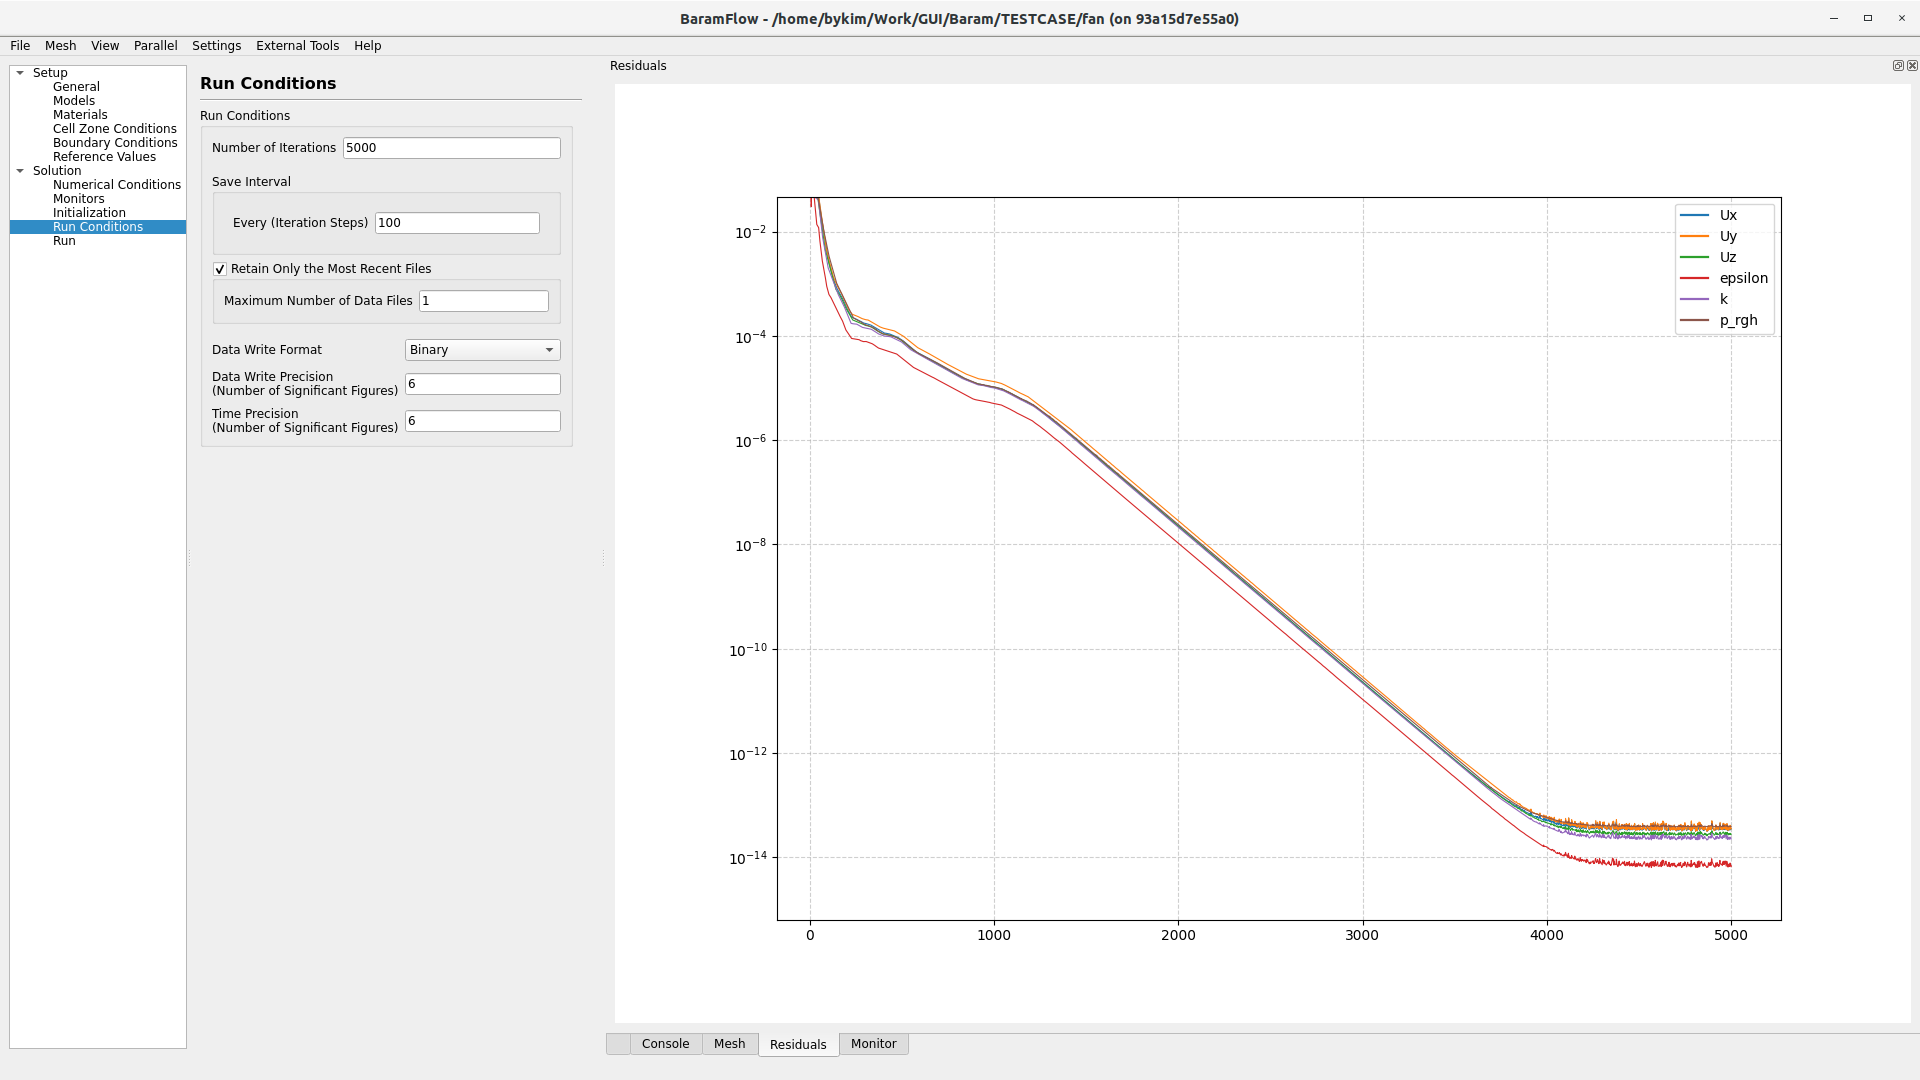
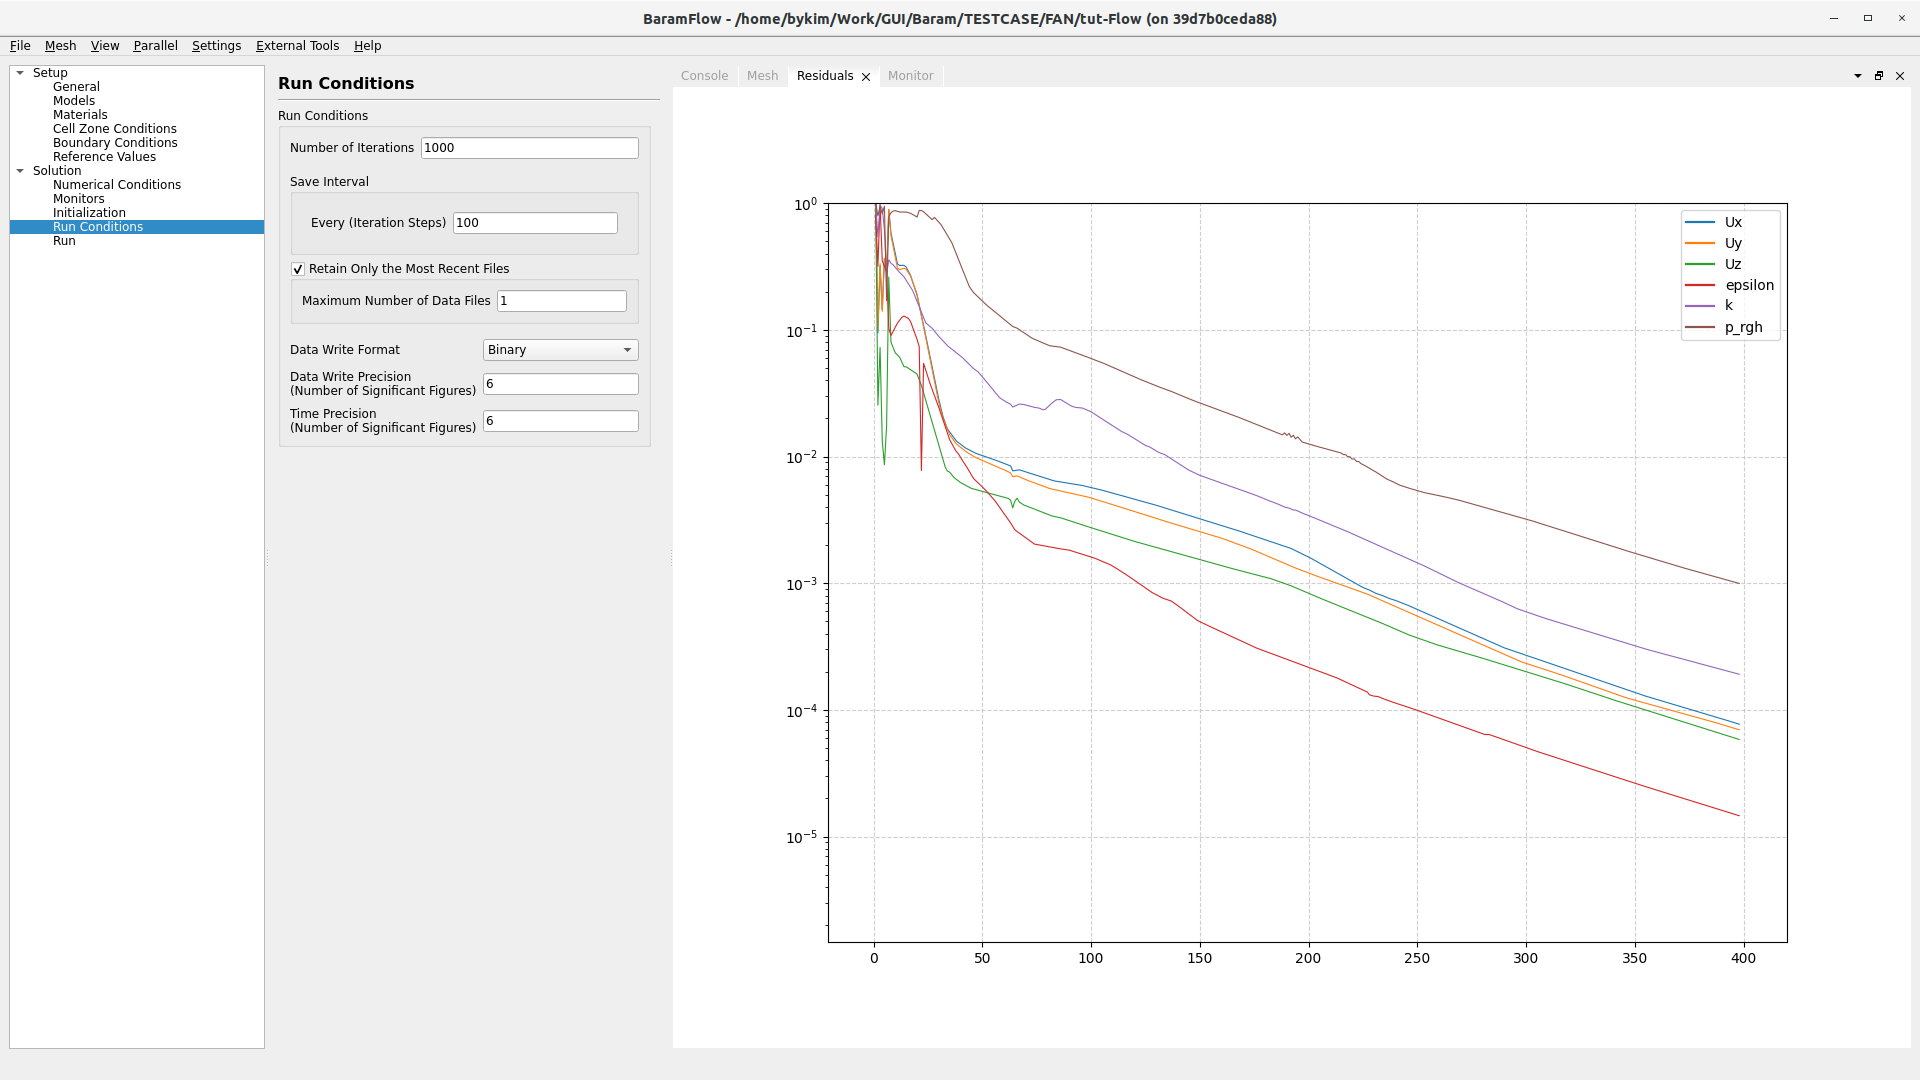
fan mesh tutorial

diff --git a/_posts/meshtutorialguide/2024-07-05-fan-post.md b/_posts/meshtutorialguide/2024-07-05-fan-post.md
@@ -1,0 +1,151 @@
+---
+layout: post
+title: 14. Fan
+category: mesh
+---
+
+
+# Fan
+
+## * [형상 파일](https://drive.google.com/file/d/1Z_PLXsIe-niyzrYEHUTkhZkboLs5eeSP/view?usp=sharing) 
+
+## 개요 
+
+|[![intro](https://github.com/nextfoam/baram-pages/raw/main/screenshots/fan/intro.png)](https://github.com/nextfoam/baram-pages/raw/main/screenshots/fan/intro.png){:target="_blank"}|
+
+* 본 예제는 간단한 형상의 원심팬의 격자를 BaramMesh로 생성하는 예제이다. 블레이드 두께가 매우 앏고 케이스와 블레이드의 간격이 매우 작기 때문에 형상을 잘 구현하기 위해 세심한 주의가 필요하다.
+
+* MRF로 계산하기 위해 프로펠러를 둘러싼 실린더가 있고 그 내부를 cell zone으로 설정한다. 
+
+* baramMesh를 실행하고 fan이라는 이름으로 project를 생성한다.
+
+## 1. 형상정의 (Geometry)
+
+형상은 주어진 casing.stl, blade.stl, inlet.stl, outlet.stl 4개의 파일을 사용한다.  
+
+하단 탭에서 Import - Select를 선택하고 blade.stl, casing.stl, inlet.stl, outlet.stl 파일을 선택한다. 
+
+
+<p align='center'>
+    <img src="https://github.com/nextfoam/baram-pages/raw/main/screenshots/mesh/fan/importSTL.png"  >
+    <br> import stl files
+</p>
+
+
+Cell zone을 만들기 위해 Add 버튼을 눌러 Cylinder를 선택한다. Type은 CellZone으로 선택하고 형상은 다음과 같이 설정한다.
+
++ Axis Point 1 : (0 0 -0.001)
++ Axis Point 2 : (0 0 0.021)
++ Radius : 0.07
+
+<p align='center'>
+    <img src="https://github.com/nextfoam/baram-pages/raw/main/screenshots/mesh/fan/createCylinder.png"  >
+    <br> Add cell zone geometry
+</p>
+
+
+Geometry에서 Cylinder_1_surface1 면을 마우스 오른쪽 버튼으로 선택하고 Edit/View를 눌러 Type을 None으로 바꾸어 준다.
+
+
+<p align='center'>
+    <img src="https://github.com/nextfoam/baram-pages/raw/main/screenshots/mesh/propeller/cellZone.png"  >
+    <br> Add cell zone geometry
+</p>
+
+Geometry의 최종 결과는 다음 그밀과 같다.
+
+<p align='center'>
+    <img src="https://github.com/nextfoam/baram-pages/raw/main/screenshots/mesh/fan/geom1.png"  >
+    <br> 최종 형상
+</p>
+
+Next 버튼을 눌러 다음 단계로 넘어간다.
+
+
+## 2. 영역정의(Region)
+
+Region에서는 Fluid의 영역을 지정한다.
+
+상단 (+)버튼을 클릭하면 아래 그림과 같이 변경된다. 디스플레이 창에서 마우스를 움직여 중앙점을 계산영역 내부에 위치시킨다. Add Region에서 Type을 Fluid로 그대로 두고 Add 버튼을 누르면 설정이 완료된다.
+
+<p align='center'>
+    <img src="https://github.com/nextfoam/baram-pages/raw/main/screenshots/mesh/fan/region.png"  >
+    <br> Region 설정
+</p>
+
+Next 버튼을 눌러 다음 단계로 넘어간다.
+
+
+## 3. 배경격자(Base Grid)
+
+Number of Cells per Direction에 50, 50, 20를 입력하고 Generate 버튼을 누른다. Display Control에 boundary들이 생성되고 격자 모양을 확인할 수 있다.
+
+<p align='center'>
+    <img src="https://github.com/nextfoam/baram-pages/raw/main/screenshots/mesh/fan/baseGrid.png"  >
+    <br> base grid 설정
+</p>
+
+Next 버튼을 눌러 다음 단계로 넘어간다.
+
+
+
+## 4. 격자세분화(Castellation)
+
+### surface/Feature Refinement
+
+(+)를 눌러 항목을 추가한다. blade_surface와 casing/Cylinder_1_surface에 대해 다음과 같이 설정한다.
+
+|[![intro](https://github.com/nextfoam/baram-pages/raw/main/screenshots/mesh/fan/surfaceRefine.png "Surface/Feature Refinement 설정")](https://github.com/nextfoam/baram-pages/raw/main/screenshots/mesh/fan/surfaceRefine.png){:target="_blank"}|
+
+
+### Volume Refinement
+
+Configuration에서 Number of Cells between Levels를 1로 설정한다. 격자수를 줄이기 위함이다.
+
+(+)를 눌러 항목을 추가한다. Volume은 outlet을 선택하고 다음과 같이 설정한다.
+
+|[![intro](https://github.com/nextfoam/baram-pages/raw/main/screenshots/mesh/fan/volumeRefine.png "Volume Refinement 설정")](https://github.com/nextfoam/baram-pages/raw/main/screenshots/mesh/fan/volumeRefine.png){:target="_blank"}|
+
+
+
+나머지 설정은 디폴트를 사용하고 Refine 버튼을 누른다. 완료되면 아래 그림과 같이 Display Control을 통해 격자를 확인할 수 있다.
+
+|[![intro](https://github.com/nextfoam/baram-pages/raw/main/screenshots/mesh/fan/refineResult.png "Refinement 결과")](https://github.com/nextfoam/baram-pages/raw/main/screenshots/mesh/fan/refineResult.png){:target="_blank"}|
+
+
+
+작업이 완료되면 Next 버튼을 눌러 다음 단계로 넘어간다.
+
+
+
+## 5. 형상구현(Snap)
+
+Feature Snapping에서 Multi-Surface Feature Snap을 확성화한다. 나머지 설정은 디폴트를 사용하고 Snap 버튼을 누른다.
+
+|[![intro](https://github.com/nextfoam/baram-pages/raw/main/screenshots/mesh/fan/snap.png "Snap 결과")](https://github.com/nextfoam/baram-pages/raw/main/screenshots/mesh/fan/snap.png){:target="_blank"}|
+
+
+
+## 6. 경계층격자(Boundary Layer)
+
+blade_surface와 casing에 경계층 격자를 만든다. Configuration은 다음과 같이 설정한다.
+
++ Number of Layers : 3
++ Thickness Model Specification : First and Expansion
++ Size Specification : Relative
++ First Layer Thickness : 0.1
++ Expansion Ratio : 1.2
++ Min. Total Thickness : 0.3
++ Boundary : propeller, stem
+
+Advanced Configuration의 Static Analysis of Starting Mesh의 Feature Angle Threshold를 60으로 설정한다. 나머지는 디폴트 값을 사용한다.
+
+|[![intro](https://github.com/nextfoam/baram-pages/raw/main/screenshots/mesh/fan/layer.png "Boundary Layer 설정")](https://github.com/nextfoam/baram-pages/raw/main/screenshots/mesh/fan/layer.png){:target="_blank"}|
+
+
+Apply - Next 버튼을 눌러 다음 단계로 넘어간다.
+
+
+## 7. 내보내기(Export)
+
+마지막으로 fan_flow라는 이름으로 Export 하면 baramFlow에서 열 수 있는 Project 폴더가 생성된다.

diff --git a/_posts/tutorials/2024-03-21-simpleFan-post.md b/_posts/tutorials/2024-03-21-simpleFan-post.md
@@ -6,15 +6,11 @@ category: tutorials
 
 # Fan 
 
-### * [격자 파일 다운로드](https://drive.google.com/file/d/1bsWn_brltH32gsHBgw4J4cae8lVzQbJK/view?usp=sharing)
-
 ## 1. 개요 
 
 |[![격자 및 속도분포](https://github.com/nextfoam/baram-pages/raw/main/screenshots/fan/intro.png "격자 및 압력분포")](https://github.com/nextfoam/baram-pages/raw/main/screenshots/fan/intro.png){:target="_blank"}|
 
 본 예제는 정상상태 비압축성 유동해석 예제이다. 단순한 형상의 팬 내부에서 입펠러가 회전할 때 MRF(Multiple Reference Frame)를 사용하여 유동을 예측하는 문제이다.
-
-격자는 Ansys Fluent의 .msh 형식의 파일을 변환하여 사용한다.
 
 계산 조건은 다음과 같다. 
 
@@ -35,7 +31,9 @@ category: tutorials
 
 ## 3. 격자
 
-격자는 주어진 Ansys의 .msh 파일을 활용한다. 상단 탭에서 File - Load Mesh - Fluent (ASCII)를 클릭하고 fan.msh 파일을 선택한다. 
+격자는 [baramMesh Fan 튜토리얼](https://baramcfd.org/mesh/2024/06/28/mixerMesh-post/)에서 만든 격자를 사용한다.
+
+메뉴에서 File-Load Mesh-OpenFOAM을 클릭하고 constant 혹은 polyMesh 폴더를 선택한다.
 
 ## 4. General
 
@@ -64,6 +62,7 @@ Multiple Reference Frame, MRF를 선택하고 아래 값들을 입력한다.
     + Rotating Speed : 1000(RPM)
     + Rotation-Axis Origin : (0 0 0)
     + Rotation-Axis Direction : (0 0 1)
+    + Static Boundary : casing
 
 <p align='center'>
     <img src="https://github.com/nextfoam/baram-pages/raw/main/screenshots/fan/mrf.png"><br>
@@ -102,26 +101,24 @@ Multiple Reference Frame, MRF를 선택하고 아래 값들을 입력한다.
 
 본 예제에서는 아래와 같이 설정을 변경한다.
 
-+ Pressure-Velocity Coupling Scheme : SIMPLEC
++ Pressure-Velocity Coupling Scheme : SIMPLE
 
 + Discretization Scheme
     + Pressure : Linear
     + Momentum : Second Order Upwind
-    + Turbulence : First Order Upwind
+    + Turbulence : Second Order Upwind
 
 + Under-Relaxation Factors
-    + Pressure : 0.9
-    + Momentum : 0.9
-    + Turbulence : 0.9
+    + Pressure : 0.3
+    + Momentum : 0.5
+    + Turbulence : 0.7
 
 + Convergence Criteria
-    + Pressure : 0
+    + Pressure : 0.001
     + Momentum : 0.001
-    + Turbulence : 0.001    + 
+    + Turbulence : 0.001
 
-<p align='center'>
-    <img src="https://github.com/nextfoam/baram-pages/raw/main/screenshots/fan/nume.png"><br>
-</p>
+
 
 ## 10. Initialization
 
@@ -137,7 +134,7 @@ Multiple Reference Frame, MRF를 선택하고 아래 값들을 입력한다.
 
 Run Conditions에서 다음과 같이 설정 후 계산을 진행한다.
 
-+ Number of Iterations : 5000
++ Number of Iterations : 1000
 + Save Interval : 100
 + Retain Only the Most Recent Files, 1
 + Data Write Format : Binary
